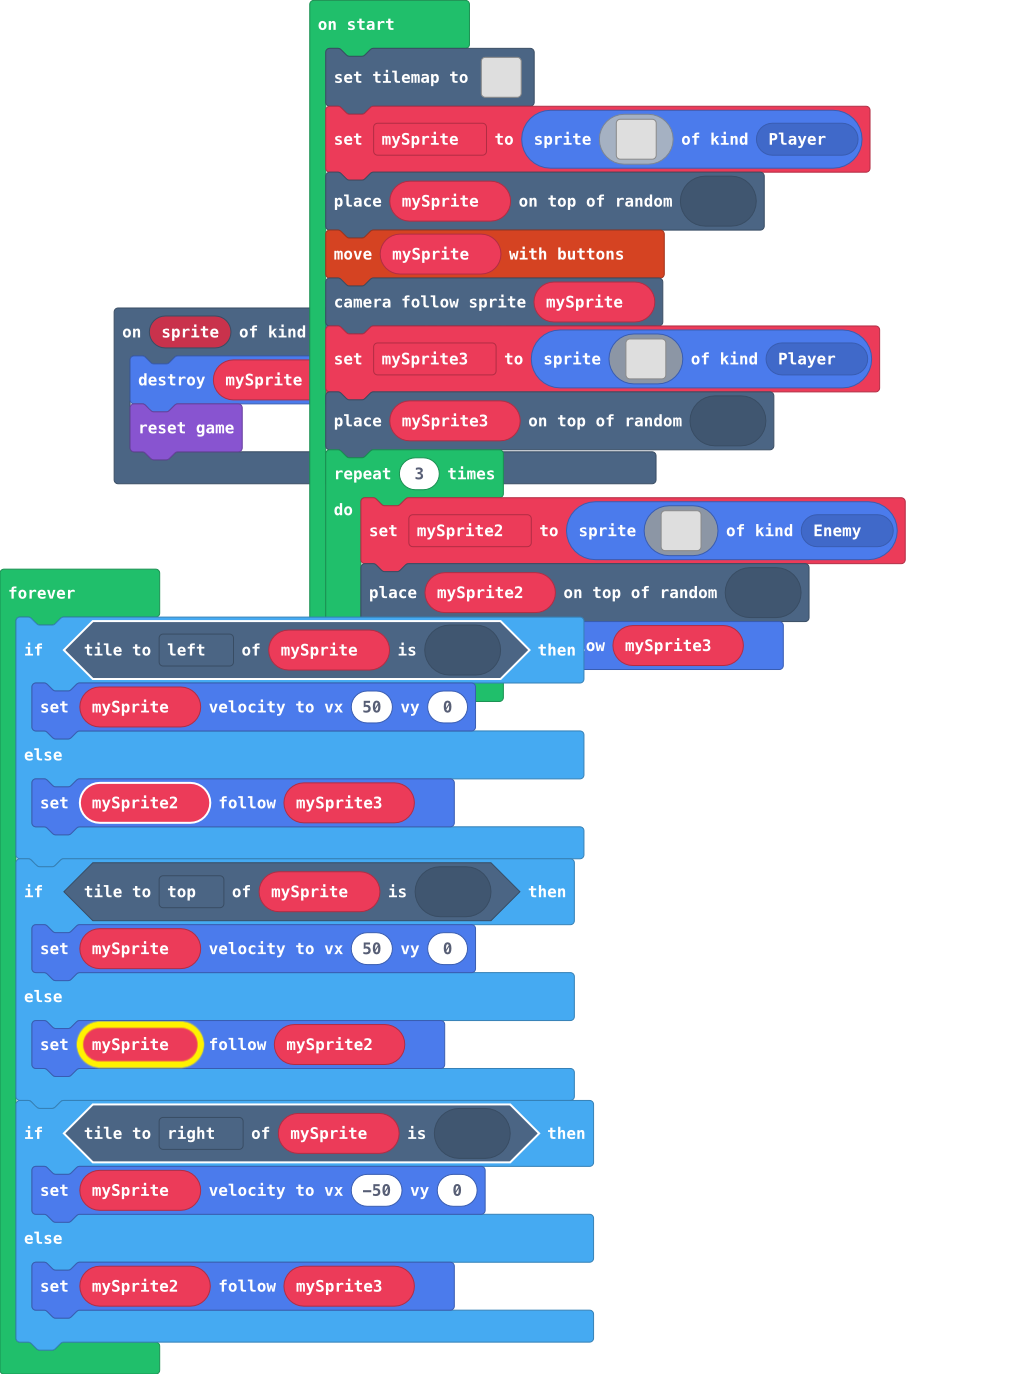
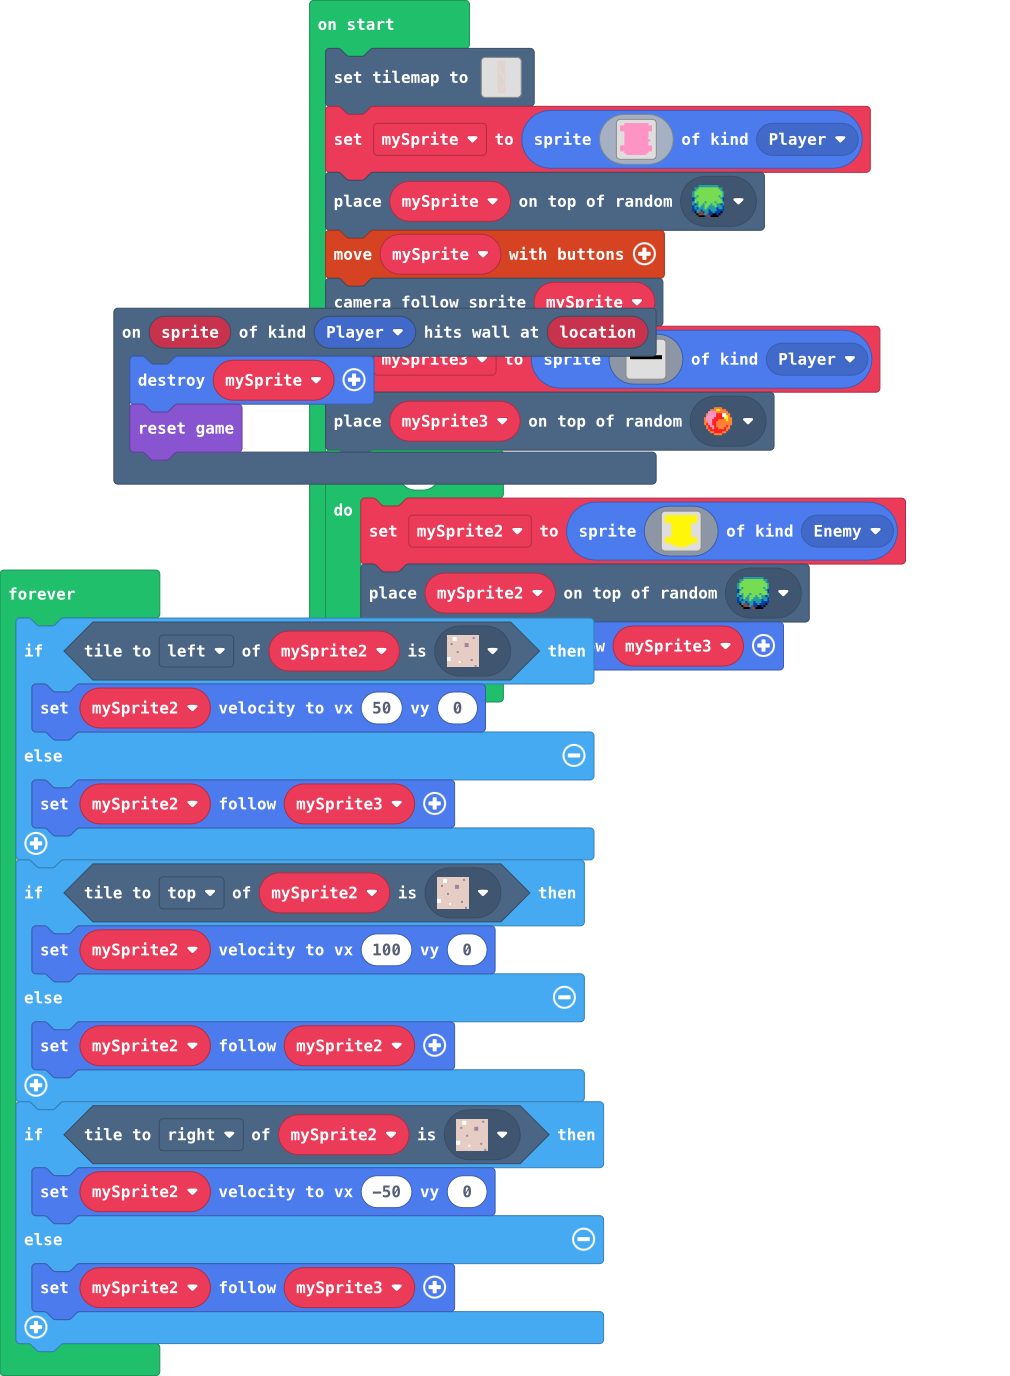
enemy work

diff --git a/main.ts b/main.ts
@@ -68,17 +68,17 @@ for (let index = 0; index < 3; index++) {
     mySprite2.follow(mySprite3)
 }
 forever(function () {
-    if (mySprite2.isHittingTile(CollisionDirection.Left)) {
+    if (mySprite2.tileKindAt(TileDirection.Left, sprites.castle.tilePath5)) {
         mySprite2.setVelocity(50, 0)
     } else {
         mySprite2.follow(mySprite3)
     }
-    if (mySprite2.isHittingTile(CollisionDirection.Top)) {
+    if (mySprite2.tileKindAt(TileDirection.Top, sprites.castle.tilePath5)) {
         mySprite2.setVelocity(100, 0)
     } else {
         mySprite2.follow(mySprite2)
     }
-    if (mySprite2.isHittingTile(CollisionDirection.Right)) {
+    if (mySprite2.tileKindAt(TileDirection.Right, sprites.castle.tilePath5)) {
         mySprite2.setVelocity(-50, 0)
     } else {
         mySprite2.follow(mySprite3)
